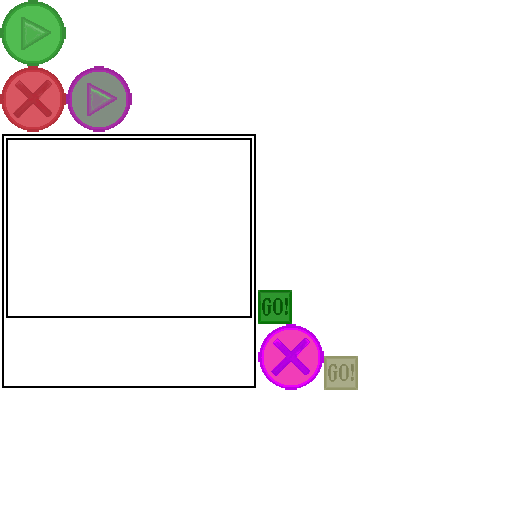
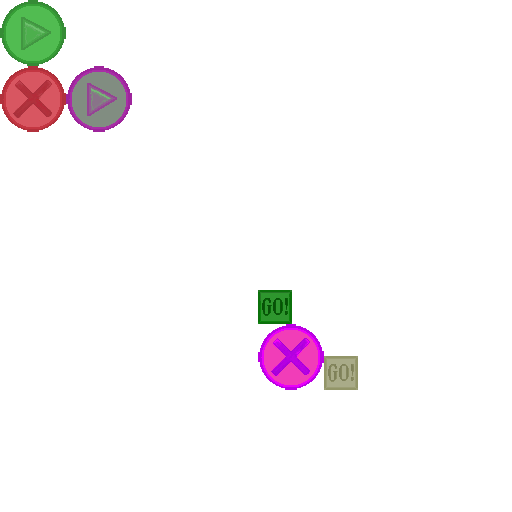
someMoreStuff

Changed region(s): [[0.0, 0.25, 0.5, 0.7812]]

diff --git a/SwampMonster/src/com/me/swampmonster/screens/SlotMachineScreen.java b/SwampMonster/src/com/me/swampmonster/screens/SlotMachineScreen.java
@@ -8,9 +8,11 @@ import com.badlogic.gdx.Gdx;
 import com.badlogic.gdx.graphics.GL20;
 import com.badlogic.gdx.graphics.g2d.SpriteBatch;
 import com.badlogic.gdx.math.Vector2;
+import com.badlogic.gdx.physics.box2d.Contact;
 import com.badlogic.gdx.scenes.scene2d.Actor;
 import com.badlogic.gdx.scenes.scene2d.Stage;
 import com.badlogic.gdx.scenes.scene2d.ui.Dialog;
+import com.badlogic.gdx.scenes.scene2d.ui.Table;
 import com.me.swampmonster.game.TheController;
 import com.me.swampmonster.models.slots.Perks;
 import com.me.swampmonster.models.slots.Slot;
@@ -71,15 +73,19 @@ public class SlotMachineScreen extends AbstractGameScreen {
 			
 			stage.act();
 			stage.draw();
+			Table.drawDebug(stage);
 			
 			if (SlotMachineTextures.peru && !SlotMachineScreen.yesWasJustPressed) {
 				for(Slot s: slotMachineTextures.slots){
 					if(s.selected){
 						slotDescWindow = new SlotDescWindow("Slot description", slotMachineTextures.skin, s);
 						stage.addActor(slotDescWindow);
-						slotDescWindow.setX(132);
-						slotDescWindow.setY(123);
-						slotDescWindow.setSize(350, 250);
+						slotDescWindow.debug();
+						slotDescWindow.getButtonTable().debug();
+						slotDescWindow.getContentTable().debug();
+						slotDescWindow.setSize(Constants.VIEWPORT_GUI_WIDTH/2f, Constants.VIEWPORT_GUI_HEIGHT/1.7f);
+						slotDescWindow.setX(Constants.VIEWPORT_GUI_WIDTH/2f-slotDescWindow.getWidth()/2);
+						slotDescWindow.setY(Constants.VIEWPORT_GUI_HEIGHT/2f-slotDescWindow.getHeight()/2);
 						SlotMachineTextures.peru = false;
 						isSlotDescWindowOpen = true;
 //						Gdx.input.setInputProcessor(null);
